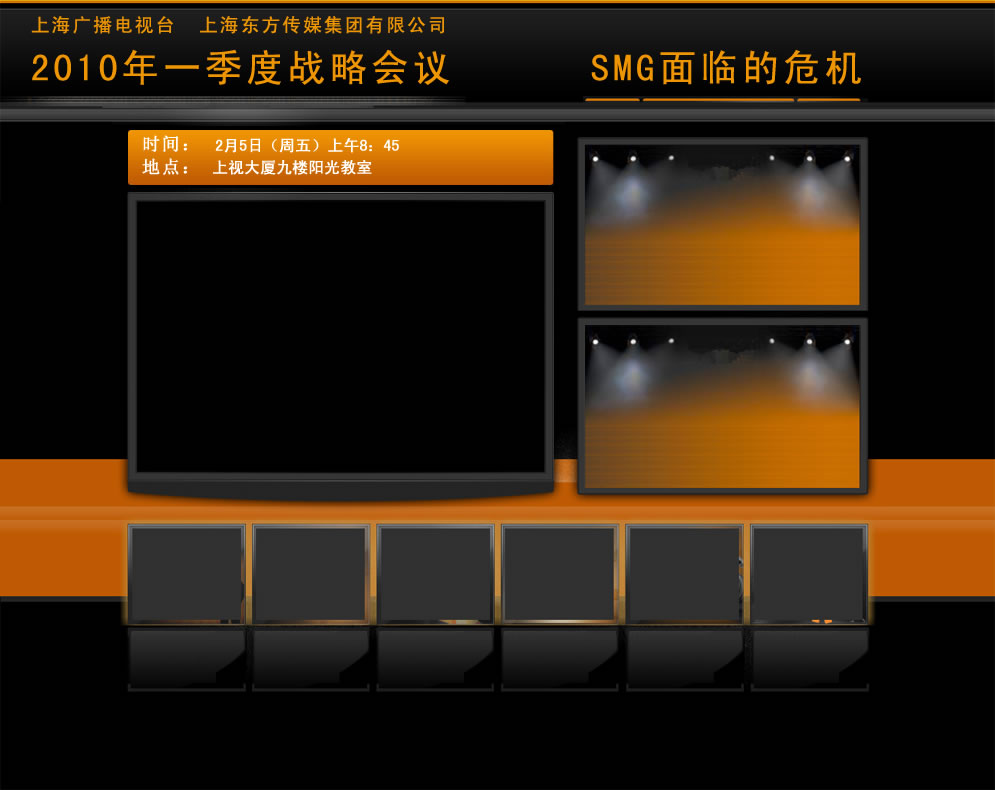
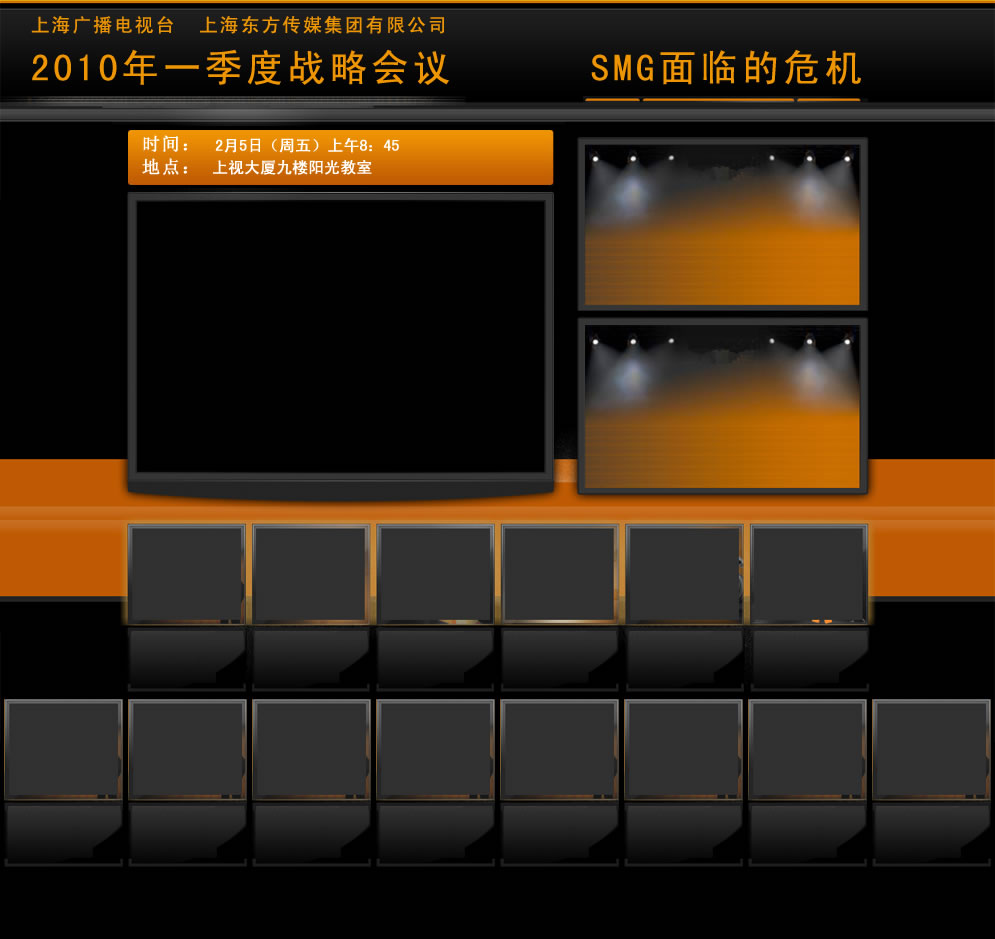
robbin

diff --git a/css/subject_wxh.css b/css/subject_wxh.css
@@ -3,17 +3,25 @@
 #ileft{width:408px; margin-left:130px; float:left; display:inline;}
 #iright{width:276px; margin-right:135px; float:right; display:inline;}
 #itop{width:995px; height:130px; float:left; display:inline;}
-#ibottom{width:995px; height:168px; margin-top:38px; float:left; display:inline;}
+#ibottom{width:995px;  float:left; display:inline;}
 #l_t{height:20px; margin-top:18px; line-height:20px; float:right; display:inline;}
 #l_t a{color:#ffffff; font-size:18px; font-weight:bold; text-decoration:none;}
 #l_video{width:408px; height:270px; margin-top:35px; margin-left:5px; float:left; display:inline;}
 .r_content{width:274px; height:160px; margin-top:15px; float:left; display:inline;}
 .r_content .title{width:274px; height:28px; line-height:28px; text-align:center; color:#CC6600; font-size:24px; font-weight:bold; float:left; display:inline;}
 .r_content .title a{color:#CC6600; font-size:24px; font-weight:bold; text-decoration:none;}
-.r_content .content{width:250px; height:80px; margin-top:25px; margin-left:12px; line-height:20px; color:#ffffff; float:left; display:inline;}
+.r_content .content{width:250px; height:120px; margin-left:12px; line-height:20px; color:#ffffff; overflow:hidden; float:left; display:inline;}
 .r_content .content .cl{width:250px; height:20px; line-height:20px; overflow:hidden; float:left; display:inline;}
 .r_content .content .cl a{color:#ffffff; text-decoration:none;}
-.b_content{width:108px; height:168px; margin-left:15px; float:left; display:inline;}
-.b_content .b_t{width:108px; height:90px; margin-top:5px; float:left; display:inline;}
-.b_content .b_b{width:108px; height:56px; margin-top:10px; line-height:18px; float:left; display:inline;}
-.b_content .b_b a{color:#ffffff; text-decoration:none;}
+.vote_box{width:250px; height:106px; margin-top:10px; margin-left:10px; float:left; display:inline;}
+.vote_button_box{width:250px; height:20px; margin-left:10px; float:left; display:inline;}
+#b_t{width:995px; height:168px; margin-top:38px; float:left; display:inline;}
+#b_b{width:995px; height:168px; margin-top:10px; float:left; display:inline;}
+.b_content{width:108px; height:168px; margin-left:16px; float:left; display:inline;}
+.b_content .b_c_t{width:108px; height:90px; margin-top:5px; float:left; display:inline;}
+.b_content .b_c_b{width:108px; height:56px; margin-top:10px; line-height:18px; float:left; display:inline;}
+.b_content .b_c_b_t{width:104px; height:30px; margin:2px; line-height:15px; overflow:hidden; float:left; display:inline;}
+.b_content .b_c_b_t a{color:#FF9900; text-decoration:none;}
+.b_content .b_c_b_b{height:23px; line-height:23px; float:right; display:inline;}
+.b_content .b_c_b_b .b_c_b_pic{cursor:pointer; float:right; display:inline;}
+.b_content .b_c_b_b .b_c_b_wz{width:25px; height:23px; line-height:23px; text-align:right; color:#ffffff; float:right; display:inline;}

diff --git a/subject/wxh/index.php b/subject/wxh/index.php
@@ -50,28 +50,65 @@ total("务虚会专题","other");
 			<div class=r_content style="margin-top:20px;">
 				<div class=title>投票</div>
 				<div class=content>
-						<?php $vote=$db->query('select * from smg_vote where category_id=181 and is_adopt=1 order by priority asc,created_at desc limit 4');
-							for($i=0;$i<count($vote);$i++)
-							{
-						?>
-						<div class=cl><a href="/vote/vote.php?vote_id=<?php echo $vote[$i]->id;?>"><?php echo $vote[$i]->name;?></a></div>
-						<?php } ?>
+						<?php 
+						$vote=$db->query('select id from smg_vote where category_id=181 order by priority asc,created_at desc limit 1');
+						if(count($vote)>0)
+						{
+							$vote = new smg_vote_class();
+							$vote->find($vote[0]->id);
+							$vote->display();
+						}
+						 ?>	
 				</div>
 			</div>
 		</div>
 		<div id=ibottom>
-			<?php $pic=$db->query('select src from smg_images where category_id=182 and is_adopt=1 order by priority asc,created_at desc limit 6');
-			for($i=0;$i<count($pic);$i++)
-			{
-			?>
-			<div class="b_content" <?php if($i==0){ ?>style="margin-left:130px;"<?php } ?>>
-				<div class="b_t">
-					<a target="_blank" href="<?php echo $pic[$i]->src; ?>"><img width=108 height=90 src="<?php echo $pic[$i]->src; ?>"></a>	
+			<div id=b_t>
+				<?php $pic=$db->query('select id,title,photo_src,flower from smg_news where category_id=185 and is_adopt=1 order by priority asc,created_at desc limit 14');
+				for($i=0;$i<6;$i++)
+				{
+				?>
+				<div class="b_content" <?php if($i==0){ ?>style="margin-left:133px;"<?php } ?>>
+					<div class="b_c_t">
+						<a target="_blank" href="/news/news/news.php?id=<?php echo $pic[$i]->id; ?>"><img border=0 width=108 height=90 src="<?php echo $pic[$i]->photo_src; ?>"></a>	
+					</div>
+					<div class="b_c_b">
+						<div class=b_c_b_t><a href="/news/news/news.php?id=<?php echo $pic[$i]->id; ?>"><?php echo delhtml($pic[$i]->title); ?></a></div>
+						<div class=b_c_b_b><div class=b_c_b_wz><?php echo $pic[$i]->flower; ?></div><div class=b_c_b_pic name="<?php echo $pic[$i]->id; ?>"><img class="flower" src="/images/wxh_flower.gif"></div></div>
+					</div>
 				</div>
-				<div class="b_b"></div>
+				<?php } ?>
 			</div>
-			<?php } ?>
+			<div id=b_b>
+				<? for($i=6;$i<14;$i++)
+				{
+				?>
+				<div class="b_content" <?php if($i==6){ ?>style="margin-left:10px;"<?php } ?>>
+					<div class="b_c_t">
+						<a target="_blank" href="/news/news/news.php?id=<?php echo $pic[$i]->id; ?>"><img border=0 width=108 height=90 src="<?php echo $pic[$i]->photo_src; ?>"></a>	
+					</div>
+					<div class="b_c_b">
+						<div class=b_c_b_t><a href="/news/news/news.php?id=<?php echo $pic[$i]->id; ?>"><?php echo delhtml($pic[$i]->title); ?></a></div>
+						<div class=b_c_b_b><div class=b_c_b_wz><?php echo $pic[$i]->flower; ?></div><div class=b_c_b_pic name="<?php echo $pic[$i]->id; ?>"><img class="flower"   src="/images/wxh_flower.gif"></div></div>
+					</div>
+				</div>
+				<?php } ?>
+			</div>
 		</div>
 	</div>
 </body>
 </html>
+<script>
+$(document).ready(function(){
+	$(".b_c_b_pic").click(function(){
+			var flowernum=$(this).prev().html();
+			flowernum=parseInt(flowernum)+1;
+			$(this).prev().html(flowernum);
+			$.post("/pub/pub.post.php",{'type':'flower','id':$(this).attr('name'),'db_table':'smg_news','digg_type':'wxh'},function(data){			
+				if(data!=''){
+				}
+			});
+			total('新闻DIGG','news');
+		});
+	});
+</script>
